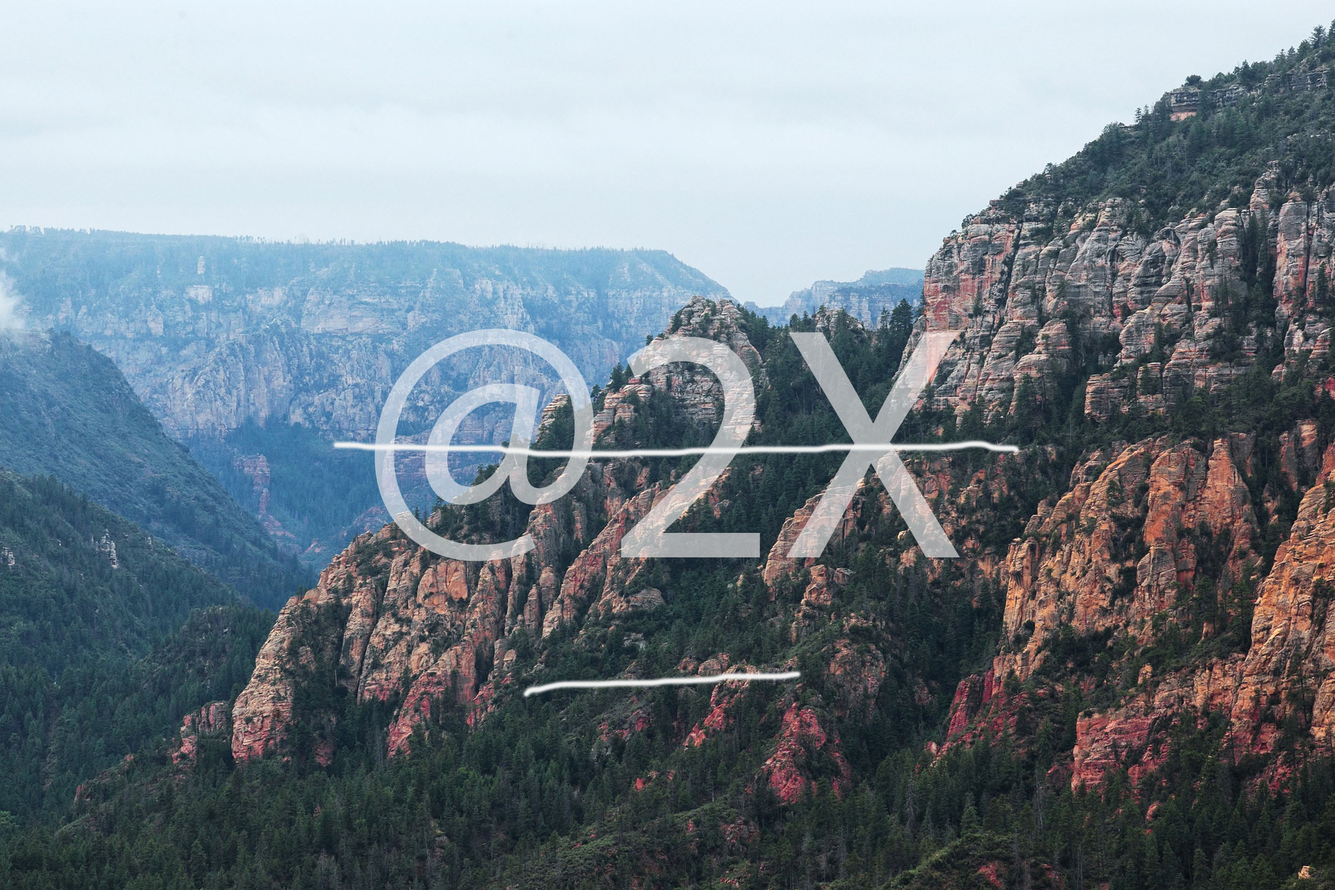
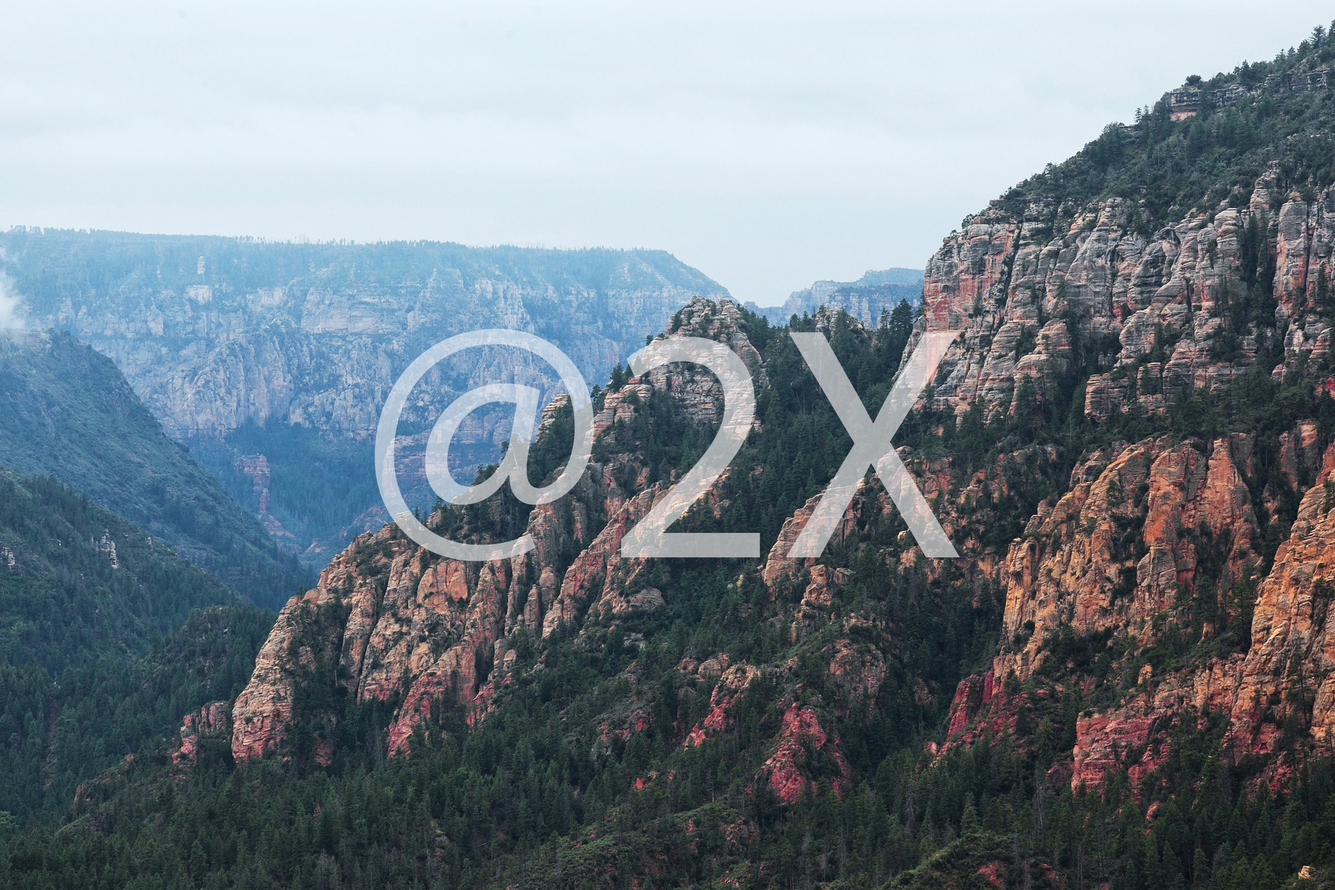
ImageOptim

Changed region(s): [[0.25, 0.4688, 0.7812, 0.5312], [0.375, 0.75, 0.5938, 0.7812]]

diff --git a/css/reasons.scss b/css/reasons.scss
@@ -116,7 +116,7 @@
 		(-webkit-min-device-pixel-ratio: 1.5),
 		(min-resolution: 144dpi),
 		(min-resolution: 1.5dppx) {
-			background-image: url(../img/photo-city@2x.jpg);
+			background-image: url(../img/photo-city@2x-min.jpg);
 	}
 }
 
@@ -127,7 +127,7 @@
 		(-webkit-min-device-pixel-ratio: 1.5),
 		(min-resolution: 144dpi),
 		(min-resolution: 1.5dppx) {
-			background-image: url(../img/photo-bridge@2x.jpg);
+			background-image: url(../img/photo-bridge@2x-min.jpg);
 	}
 }
 

diff --git a/css/style.scss b/css/style.scss
@@ -115,7 +115,7 @@ img {
 		(-webkit-min-device-pixel-ratio: 1.5),
 		(min-resolution: 144dpi),
 		(min-resolution: 1.5dppx) {
-			background-image: url(../img/intro_background_MOD@2x.jpg);
+			background-image: url(../img/intro_background_MOD@2x-min.jpg);
 	}
 	
 	&:after {
